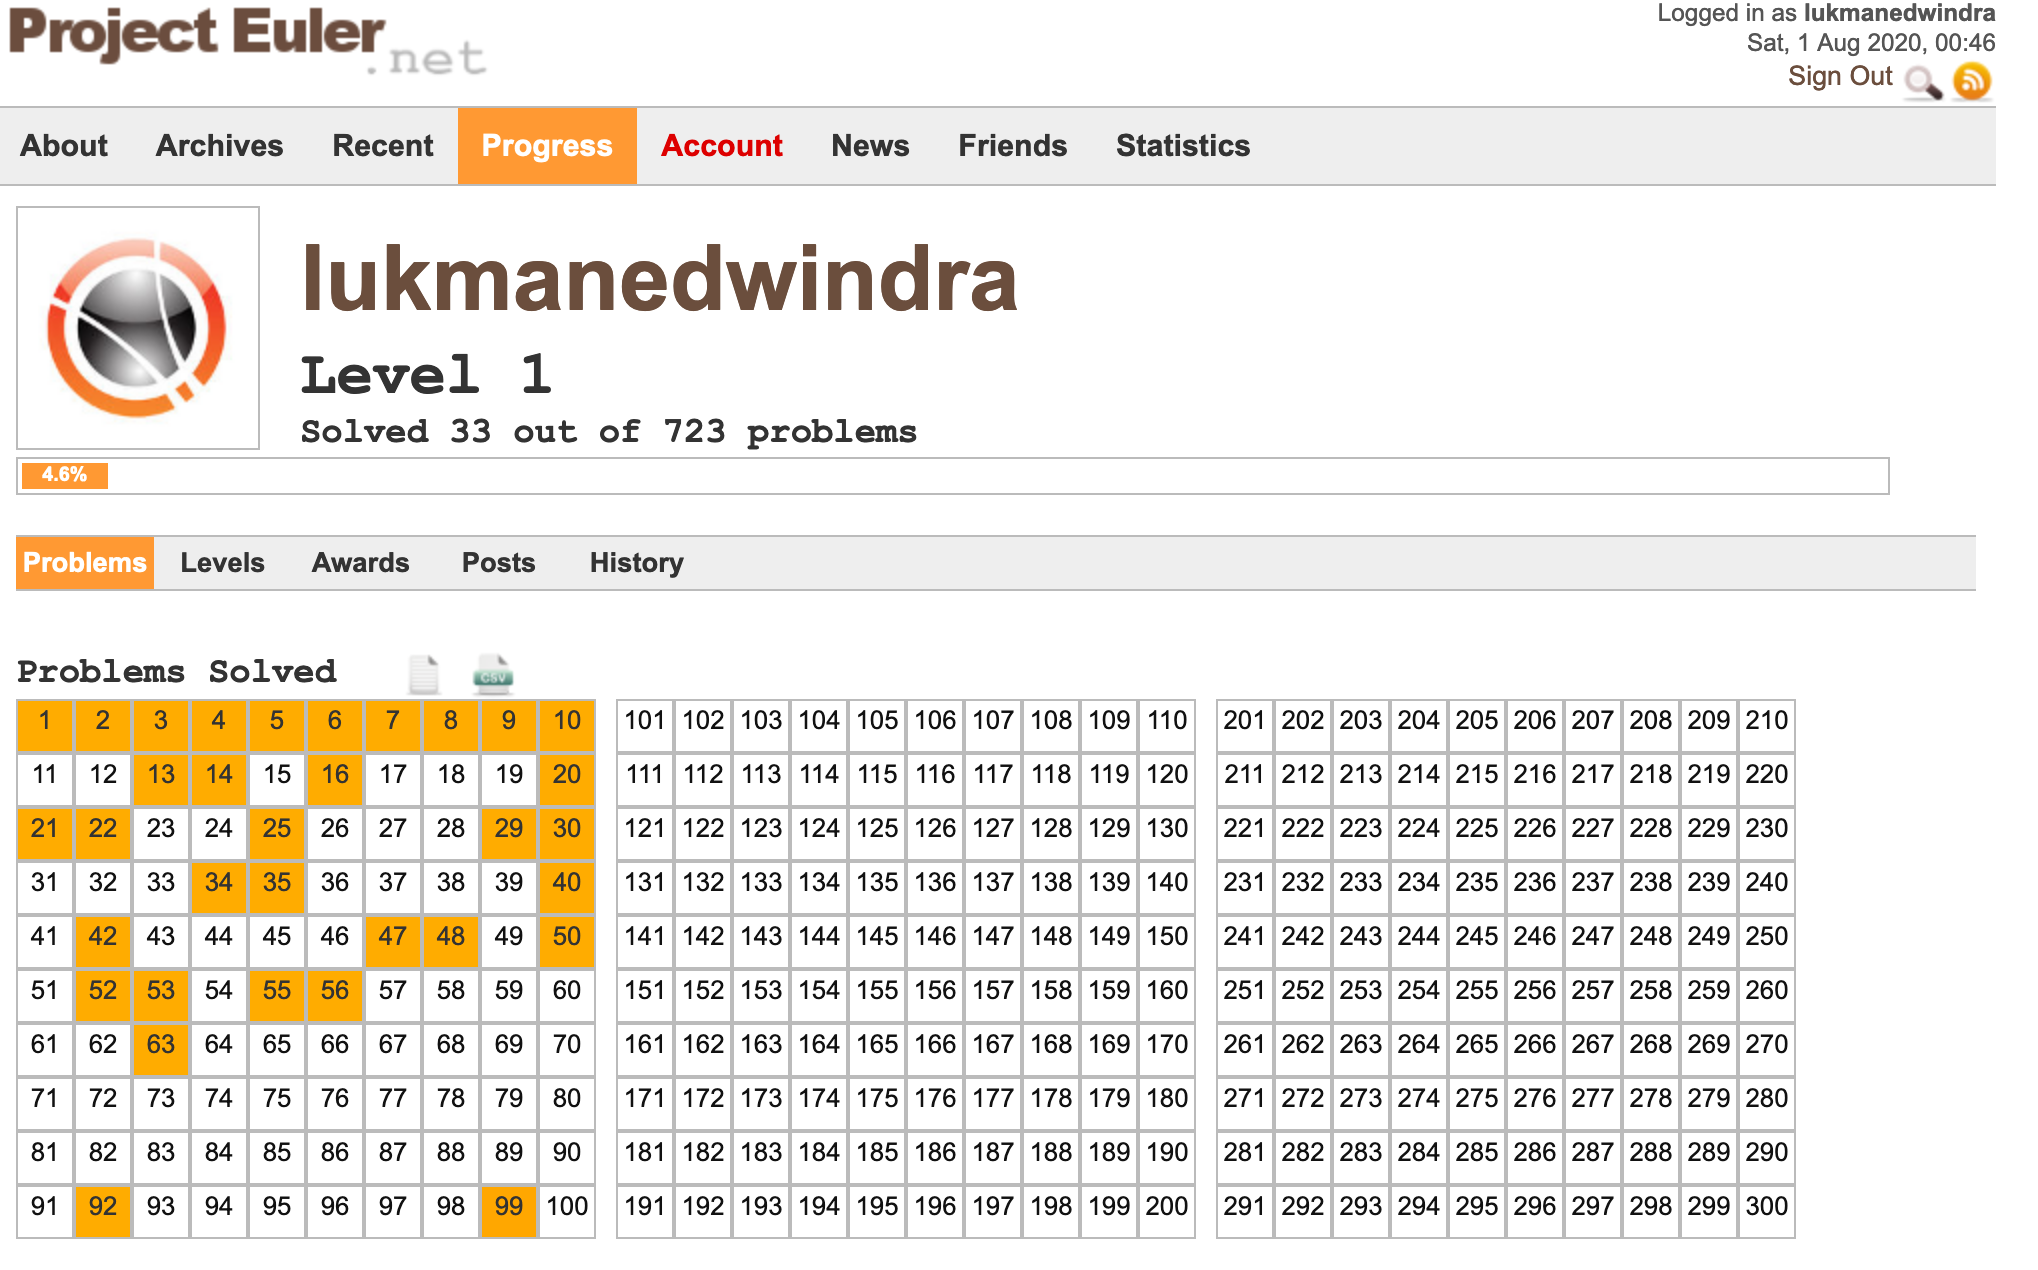
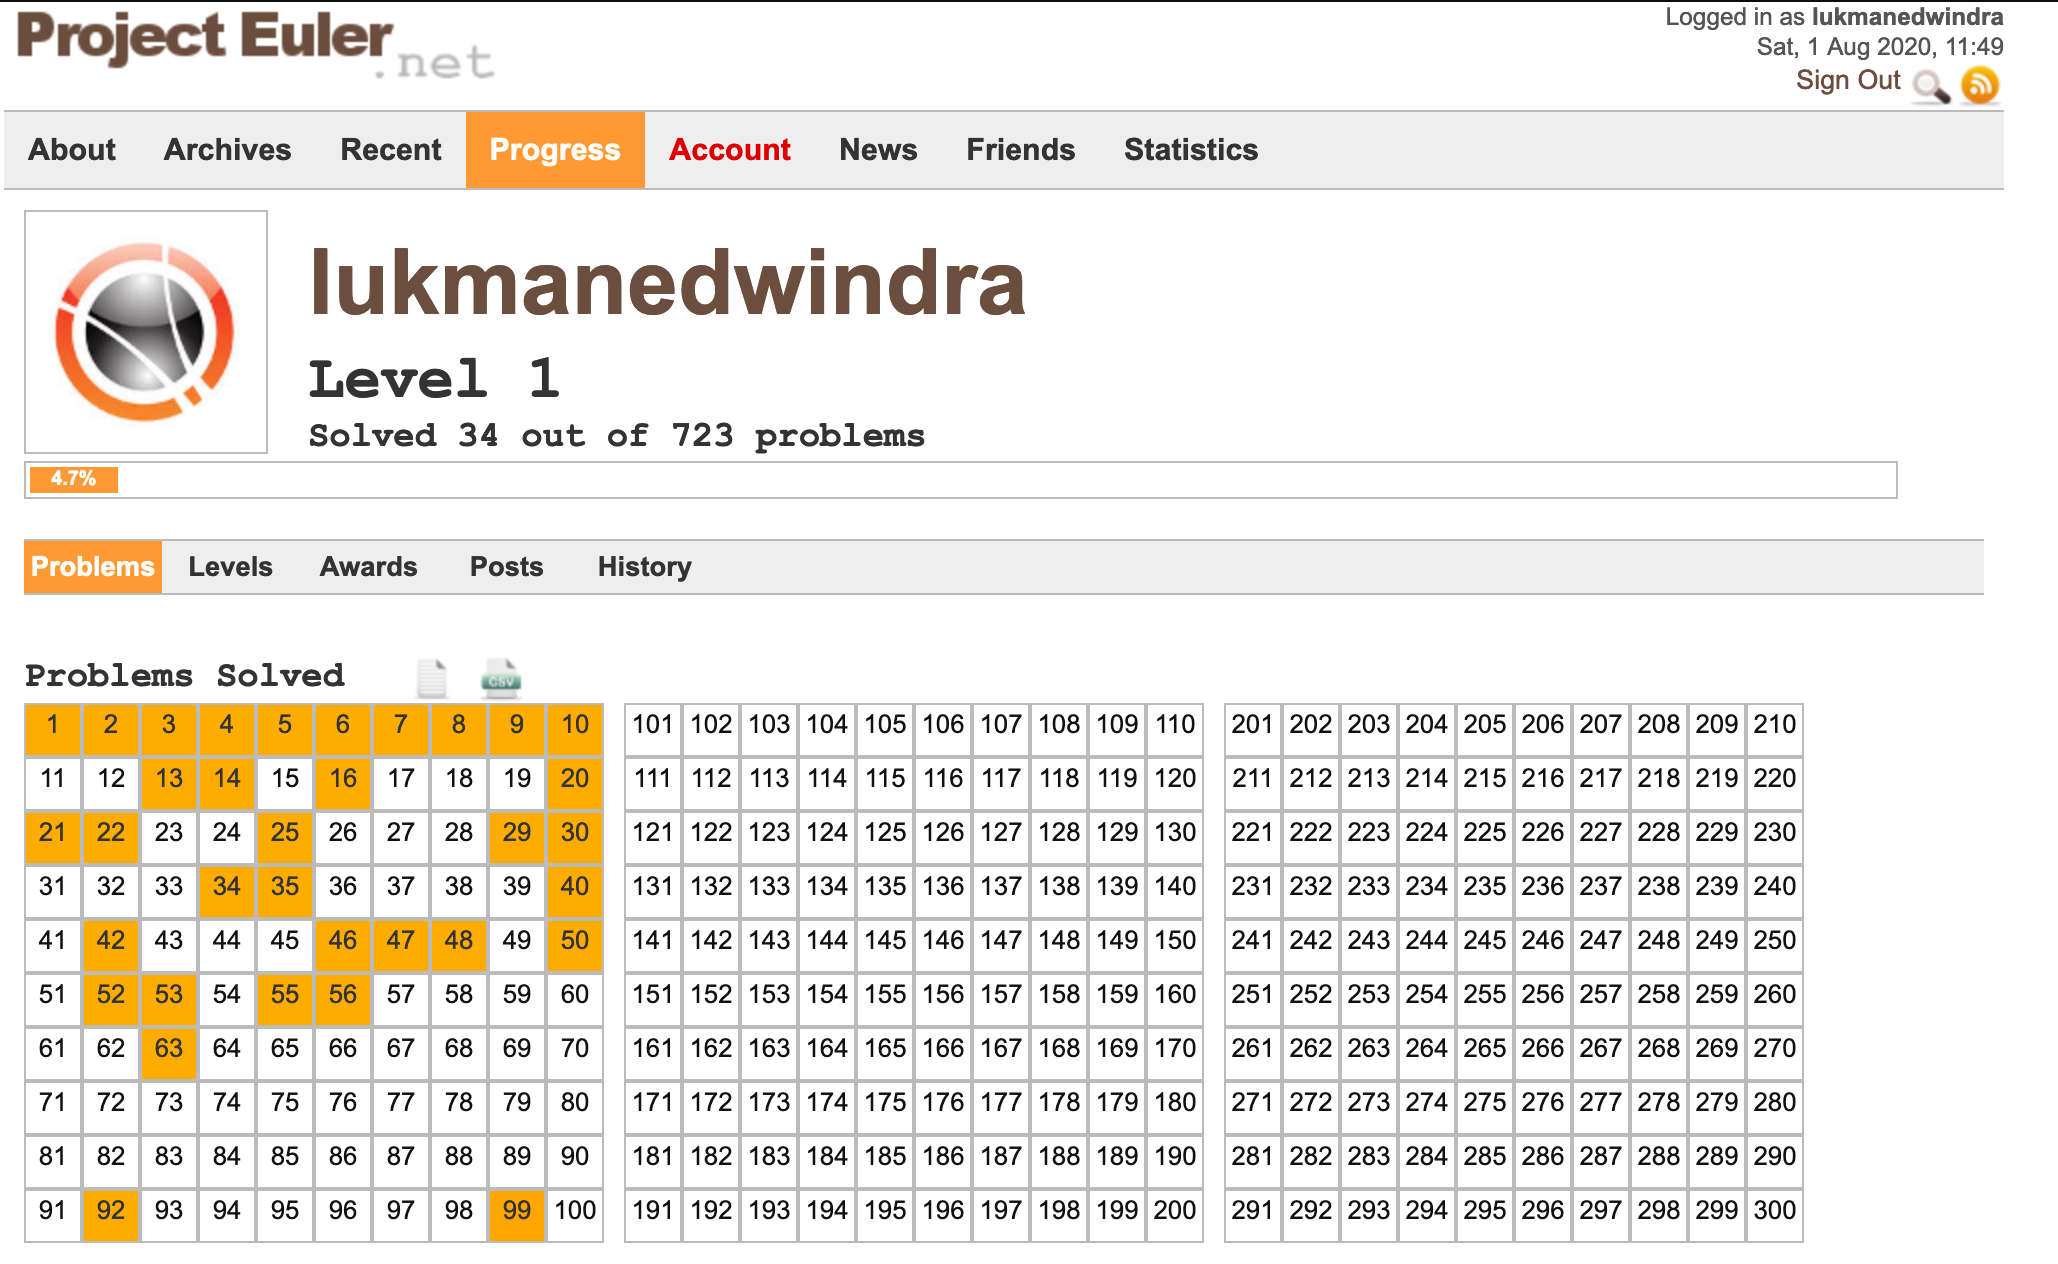
Solved problem 46

Changed region(s): [[0.0, 0.5245, 0.8965, 0.9873], [0.0, 0.0, 0.9892, 0.4937]]

diff --git a/project_euler.py b/project_euler.py
@@ -286,6 +286,41 @@ class Problems:
         fibonacci = len(fibonacci[1:])
 
         return fibonacci
+    
+    def problem_forty_six(self, n=6000):
+        """
+        Pentagonal numbers are generated by the formula, Pn=n(3n−1)/2. The first ten pentagonal numbers are:
+
+        1, 5, 12, 22, 35, 51, 70, 92, 117, 145, ...
+
+        It can be seen that P4 + P7 = 22 + 70 = 92 = P8. However, their difference, 70 − 22 = 48, is not pentagonal.
+
+        Find the pair of pentagonal numbers, Pj and Pk, for which their sum and difference are pentagonal and D = |Pk − Pj| is minimised; what is the value of D?
+        """
+        def is_prime(n):
+            # returns True if prime and n > 1
+            if n > 1:
+                sqrt_n = int(n ** 0.5)
+                for i in range(2, sqrt_n + 1):
+                    if n % i == 0:
+                        return False
+                return True
+            return False
+
+        odd_composite = [x for x in range(9, n+1) if is_prime(x) == False and x % 2 != 0]
+        composites = []
+        for odd in odd_composite:
+            primes = [x for x in range(odd) if is_prime(x) == True]
+            i = 0
+            while i < len(primes):
+                for j in range(1, int(odd ** 0.5)):
+                    equation = primes[i] + (2 * (j ** 2))
+                    if equation == odd:
+                        composites.append(odd)
+                i += 1
+        answer = [x for x in odd_composite if x not in set(composites)][0]
+
+        return answer
 
     def problem_forty_seven(self, i=0, n=4):
         """

diff --git a/test_project_euler.py b/test_project_euler.py
@@ -39,6 +39,11 @@ class TestProblemOne(unittest.TestCase):
 
         self.assertEqual(answer, 4782)
 
+    def test_problem_forty_six(self):
+        answer = self.project_euler.problem_forty_six()
+
+        self.assertEqual(answer, 5777)
+
     def test_problem_forty_seven(self):
         answer = self.project_euler.problem_forty_seven()
 

diff --git a/README.md b/README.md
@@ -3,7 +3,7 @@
 # About
 Hello world :earth_asia:! Are you into mathematics and computer programming? Then [<strong>`Project Euler`</strong>](https://projecteuler.net/about) is a good platform for you. They say the users are allowed to share and discuss the first 100 problems outside of their platform. So here I am. :sunglasses:
 
-As of August 1, 2020, I have solved 33 problems and I'm still enjoying it. :beers:
+As of August 1, 2020, I have solved 34 problems and I'm still enjoying it. :beers:
 
 ![latest-progress](./img/latest-progress.png)
 
